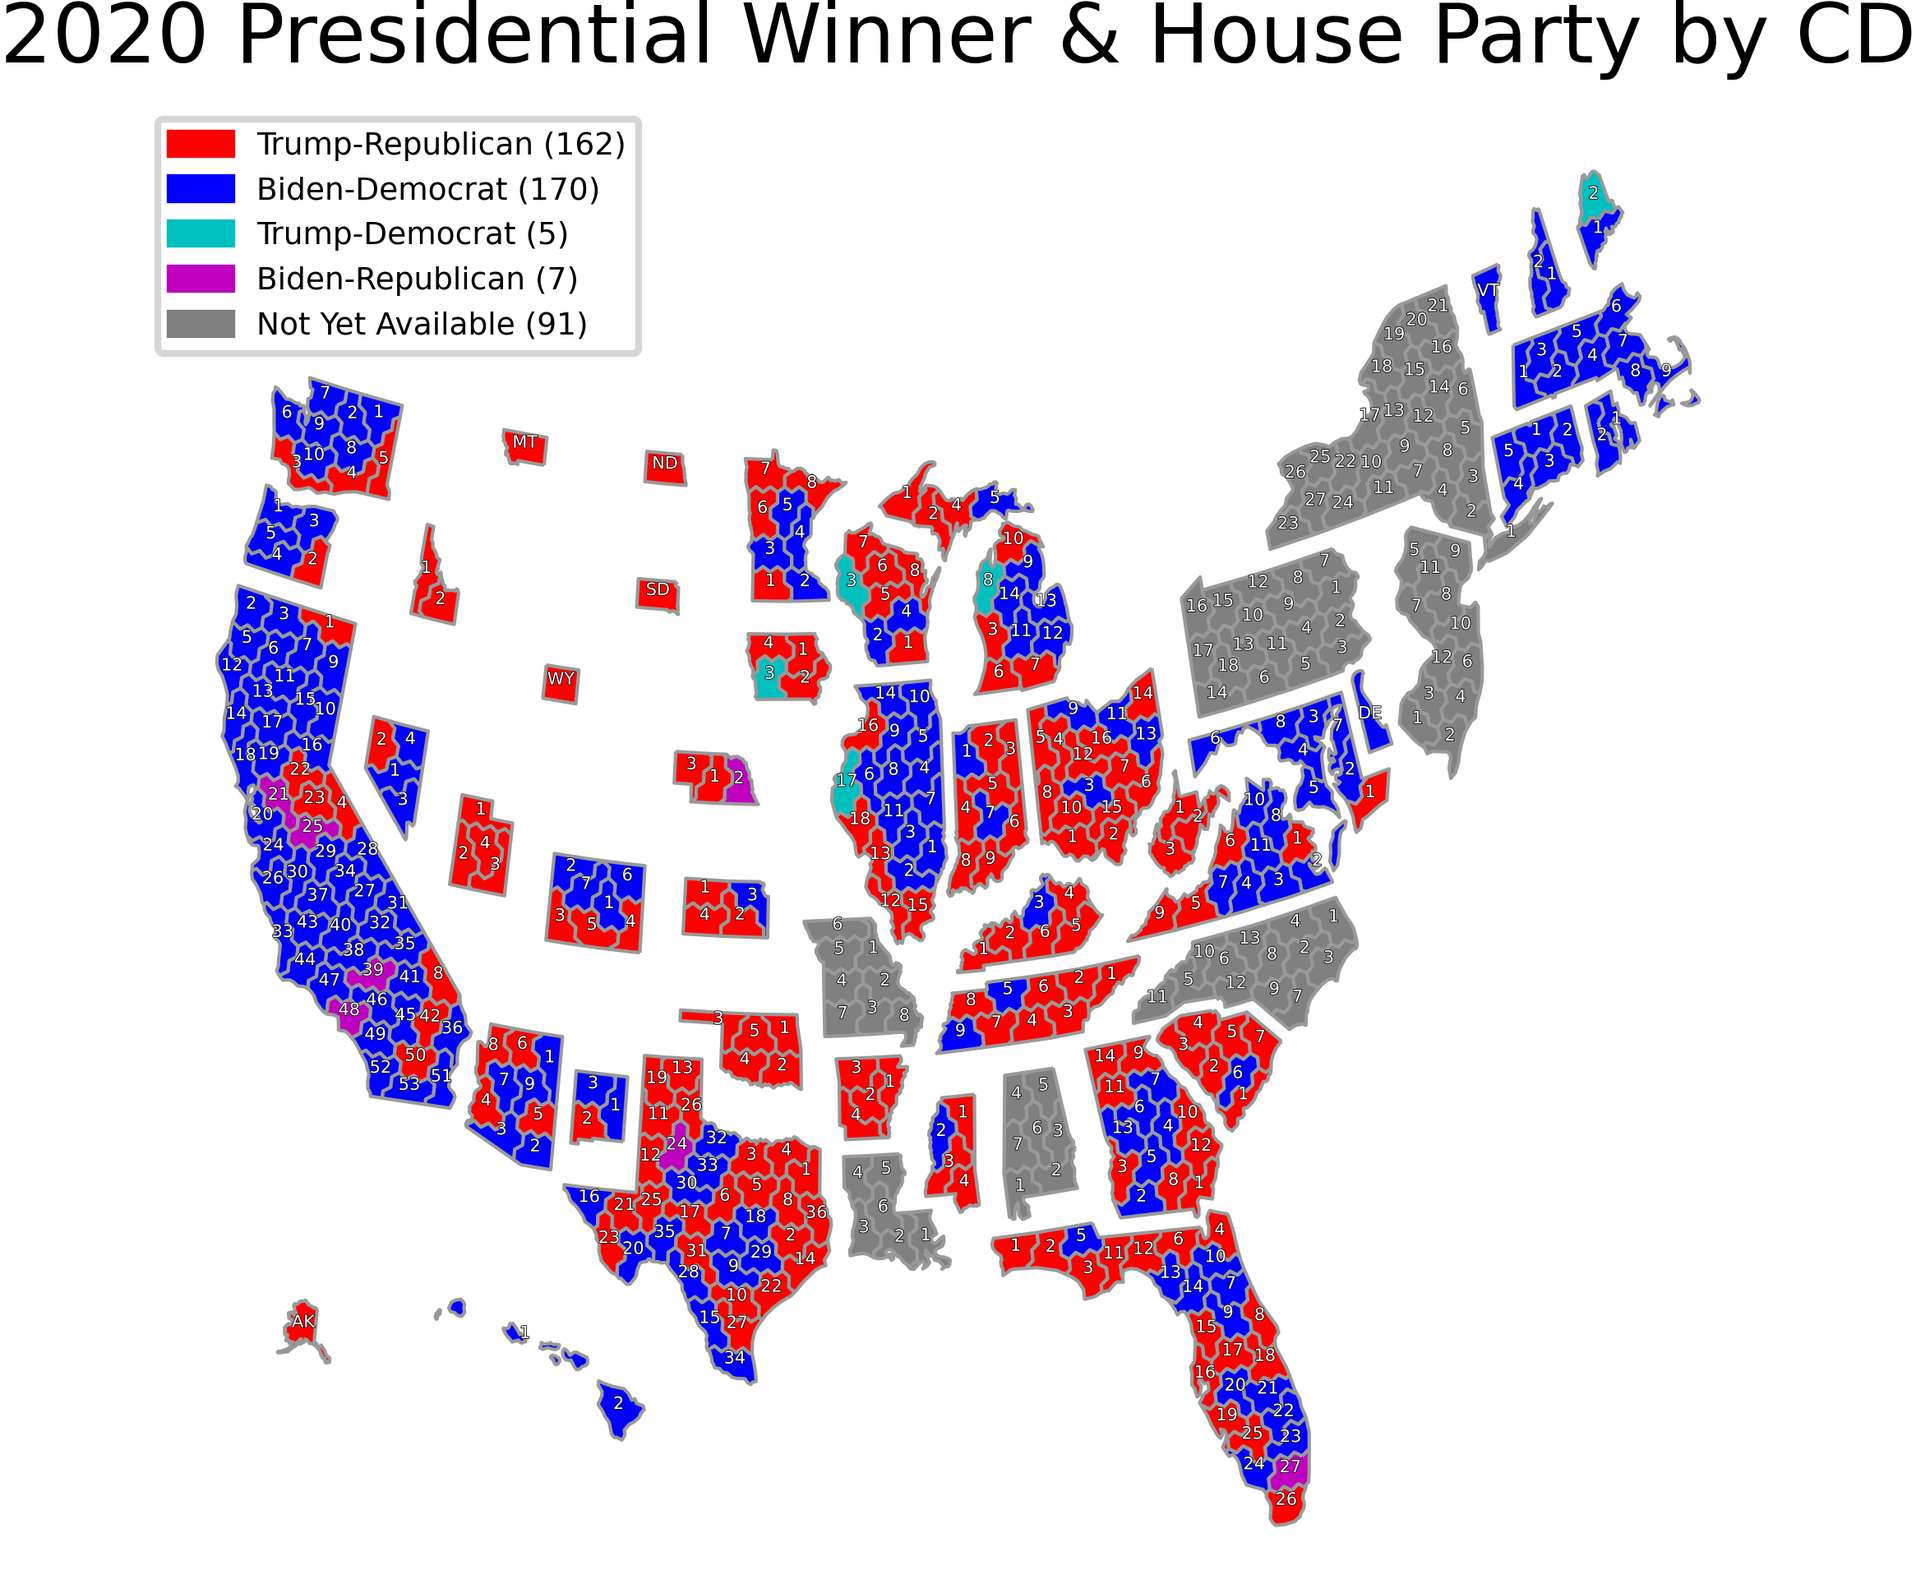
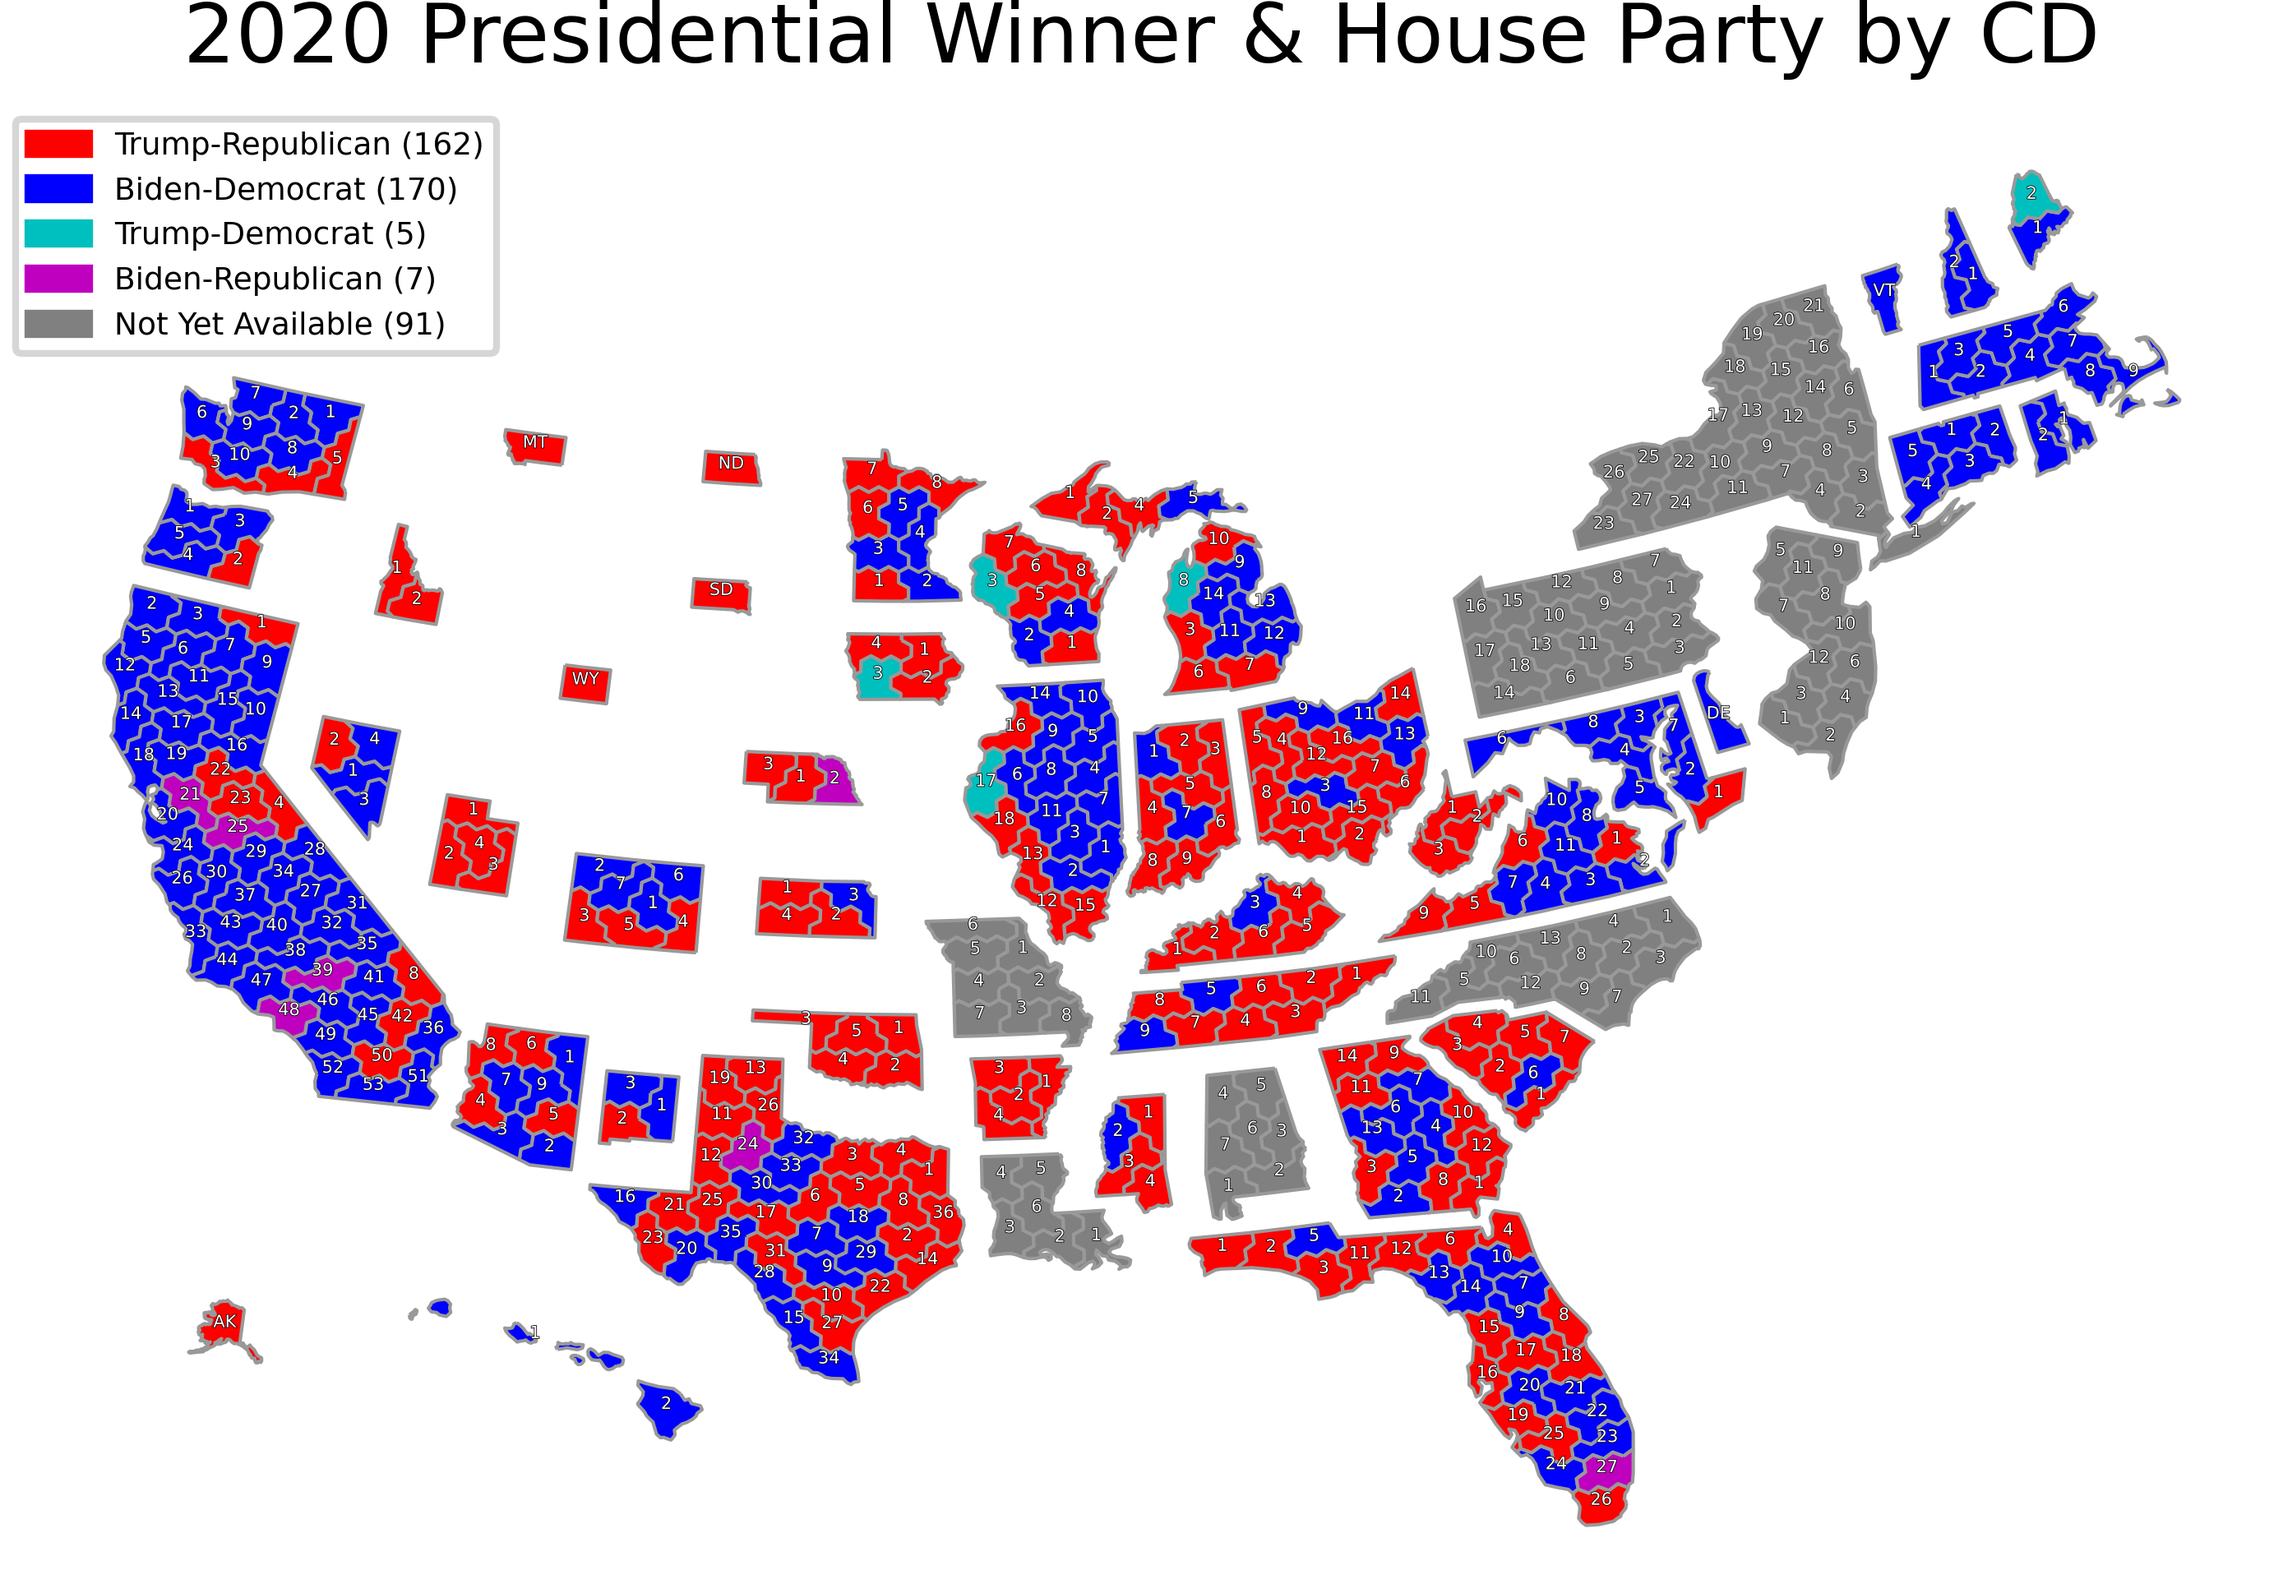
Add files via upload

diff --git a/questions/60234/main.py b/questions/60234/main.py
@@ -71,6 +71,9 @@ map_df = map_df[map_df.geometry.notnull()]
 map_df["CDFIPS"] = map_df["GEOID"].apply(lambda x: "01" if x[2:] == "00" else x[2:])
 map_df["CD"] = map_df.apply(lambda x: f"{x['STATEAB']}-{x['CDFIPS']}", axis=1)
 
+# Hexmap geometry is a bit weird, so stretch the map a little on the x axis.
+map_df['geometry'] = map_df['geometry'].scale(xfact=1.4, origin=(0,0))
+
 map_merged = map_df.merge(merged, on="CD")
 
 # Map plotting
